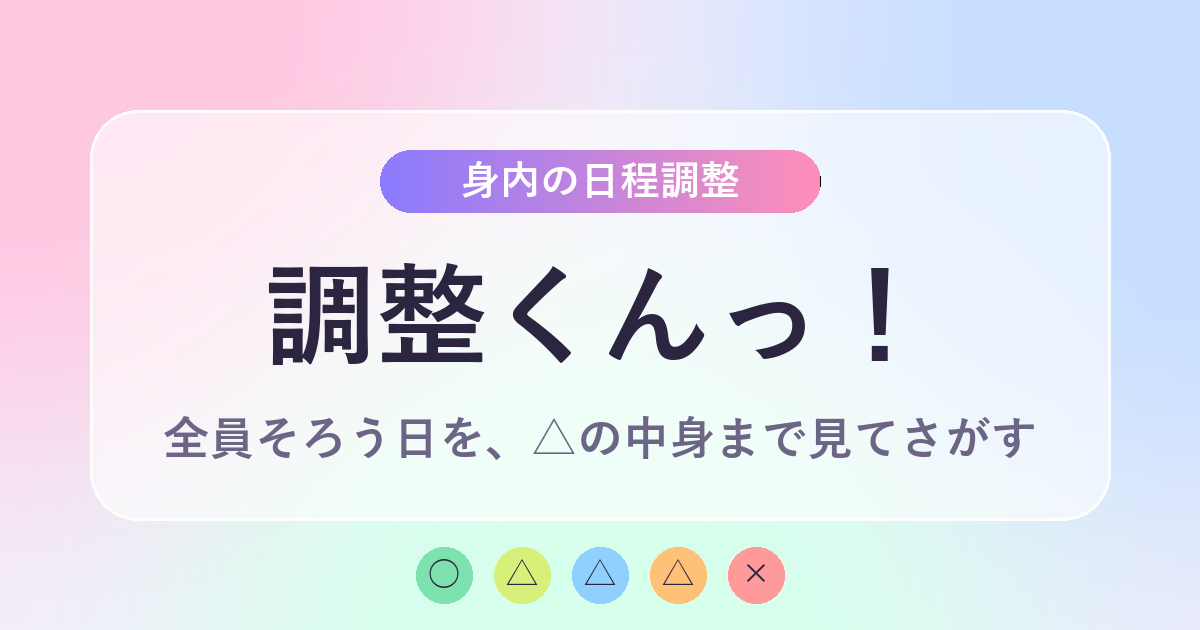
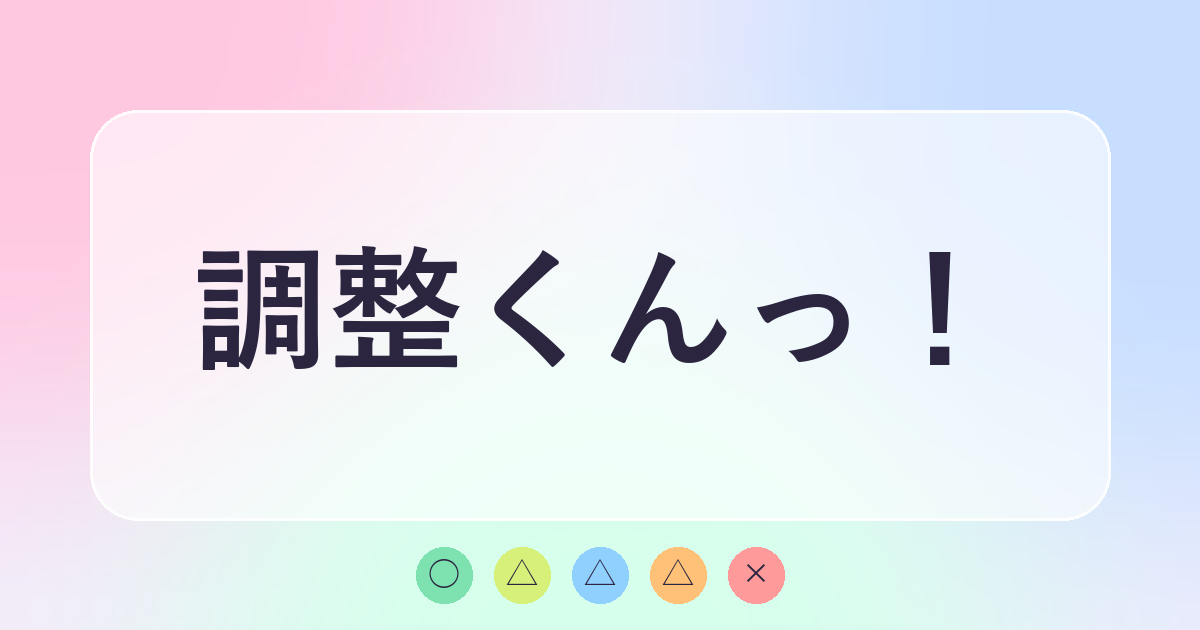
ページ上部の「身内の日程調整」と説明文を削る（プレビュー画像も）

diff --git a/index.html b/index.html
@@ -5,11 +5,11 @@
 <meta name="viewport" content="width=device-width,initial-scale=1,viewport-fit=cover">
 <!--OGP-->
 <title>調整くんっ！</title>
-<meta name="description" content="全員そろう日を、△の中身まで見てさがす日程調整">
+<meta name="description" content="○△×で都合を集める日程調整サイト">
 <meta property="og:type" content="website">
 <meta property="og:site_name" content="調整くんっ！">
 <meta property="og:title" content="調整くんっ！">
-<meta property="og:description" content="全員そろう日を、△の中身まで見てさがす日程調整">
+<meta property="og:description" content="○△×で都合を集める日程調整サイト">
 <meta property="og:image" content="https://b0544109-nk2.github.io/chousei-kun/ogp.png">
 <meta name="twitter:card" content="summary_large_image">
 <!--/OGP-->
@@ -404,9 +404,7 @@
 <body>
 <div class="wrap">
   <header>
-    <span class="kicker">身内の日程調整</span>
     <h1>調整くんっ<span class="dot">！</span></h1>
-    <p class="lead">全員そろう日を、△の中身まで見てさがす</p>
     <span class="demo-note" id="demoNote" hidden>見本データで動いています（送信はされません）</span>
   </header>
 

diff --git a/README.md b/README.md
@@ -1,6 +1,6 @@
 # 調整くんっ！
 
-身内向けの日程調整サイト。全員そろう日を、△の中身（調整可・並行調整中・ダメそう）まで見てさがす。
+身内向けの日程調整サイト。△を「調整可・並行調整中・ダメそう」の3つに分けて、全員そろう日をさがす。
 
 - 公開ページ: https://b0544109-nk2.github.io/chousei-kun/
 - 見本データで動きを見る: https://b0544109-nk2.github.io/chousei-kun/?demo
